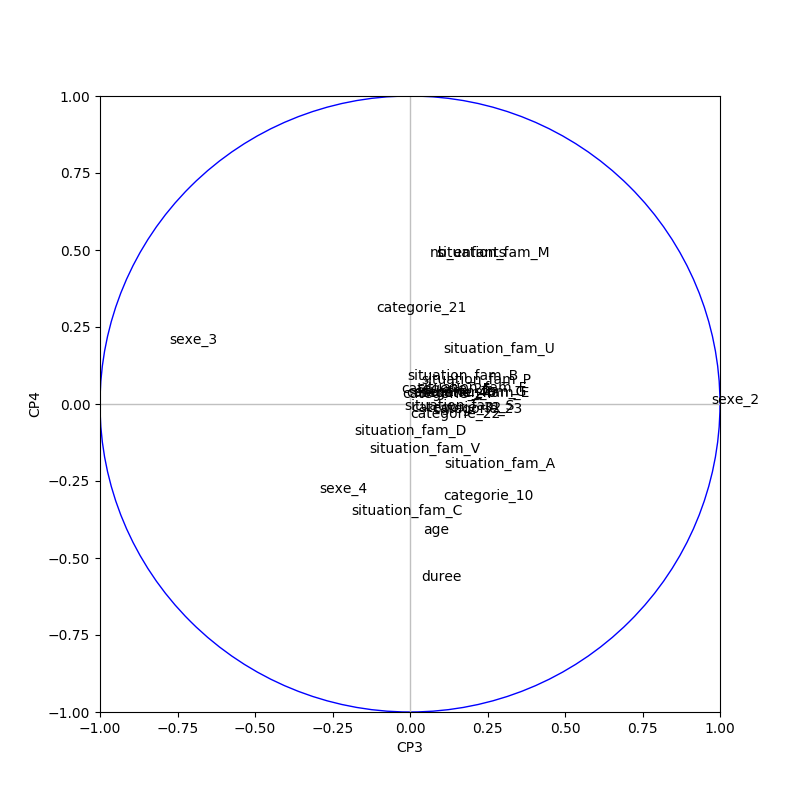
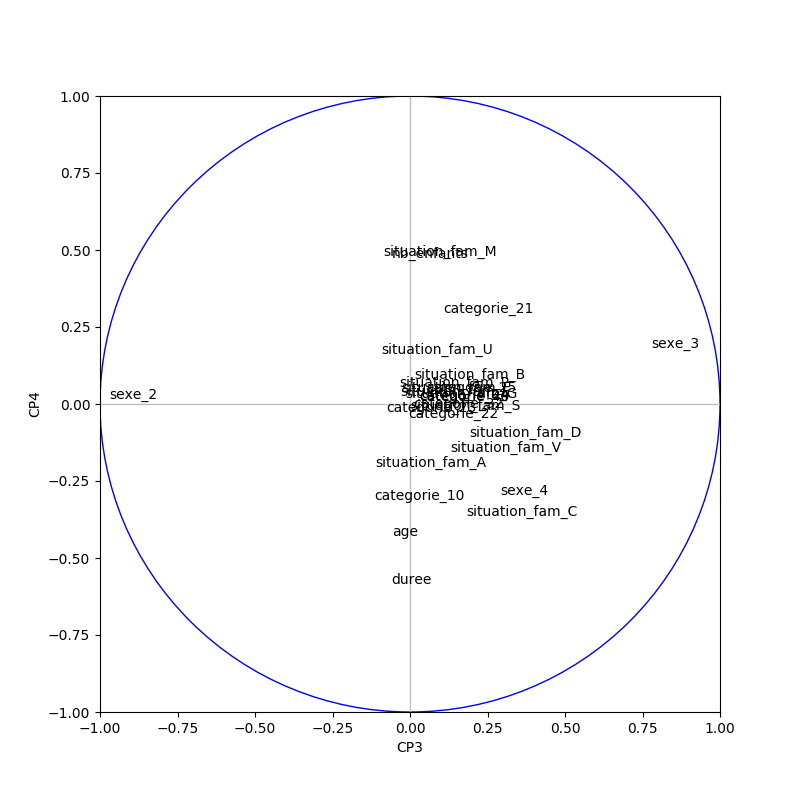
Arbre de décision

diff --git a/Kowalski.py b/Kowalski.py
@@ -5,6 +5,7 @@ import seaborn as sn
 import matplotlib.pyplot as plt
 import argparse
 import os
+import graphviz
 from sklearn import tree
 from sklearn.dummy import DummyClassifier
 from sklearn.naive_bayes import GaussianNB
@@ -126,17 +127,15 @@ def main(args):
     #####                                        #####
     ##################################################
     ##################################################
-
-    # Ligne 1: on ne discretise pas; Ligne 2: on discretise
-    #df["situation_fam"] = df["situation_fam"].apply(lambda x: ord(x.lower()) - 96).astype(int)
-    df = discretization(df, ["categorie", "situation_fam", "sexe"]) 
     
     # On prend autant de démissionnaires que de non démissionnaires
     mini = min([df[df["demissionnaire"] == True].count().iloc[0], df[df["demissionnaire"] == False].count().iloc[0]])
     df = df.groupby(["demissionnaire"]).apply(lambda grp: grp.sample(n = mini)).reset_index(level = [0, 1], drop = True)
 
-    # Création des données X et Y
-    X, Y = get_XY(df, type_exec)
+    #df_base["situation_fam"] = df_base["situation_fam"].apply(lambda x: ord(x.lower()) - 96).astype(int)
+    # Création des données X et Y. X_base et Y_base ne sont pas altérés à partir de maintenant
+    X, Y = get_XY(discretization(df, ["categorie", "situation_fam", "sexe"]), type_exec)
+    X_base, Y_base = get_XY(discretization(df, ["categorie", "situation_fam", "sexe"]), type_exec)
 
     # Scale des données
     scaler = StandardScaler()
@@ -159,13 +158,8 @@ def main(args):
         coord = pd.DataFrame(acp.fit_transform(X))
         corvar, eigval, n, p = get_corvar(X, acp)
 
-<<<<<<< HEAD
         # Affichage de la courpe de variable exprimée par les composantes
         save_eigval_graph(eigval, p)
-=======
-    # Affichage de la courpe de variable exprimée par les composantes
-    # save_eigval_graph(eigval, p)
->>>>>>> 4c990fda40d98080c30a4e6d0843894025e60fe1
 
         # Variance expliquée par composante principale
         print(acp.explained_variance_ratio_)
@@ -174,7 +168,6 @@ def main(args):
         correlation_circle(X, p, 0, 1, corvar)
         correlation_circle(X, p, 2, 3, corvar)
 
-<<<<<<< HEAD
         # Affichage des données projetées sur ces mêmes composantes
         save_acp_graph(acp, coord, X, Y, 0, 1, n, p, corvar)
         save_acp_graph(acp, coord, X, Y, 2, 3, n, p, corvar)
@@ -183,31 +176,18 @@ def main(args):
         #make_dendrogram(X)
         make_elbow(X)
         #make_Kmeans(5, X, coord.iloc[:, :4], Y);
-=======
-    # Affichage des données projetées sur ces mêmes composantes
-    # save_acp_graph(acp, coord, X, Y, 0, 1)
-    # save_acp_graph(acp, coord, X, Y, 2, 3)
-
-    # Clustering hiérarchique des données
-    # make_dendrogram(X)
-    make_elbow(X);
-    make_Kmeans(5, X, coord.iloc[:, :6], Y);
->>>>>>> 4c990fda40d98080c30a4e6d0843894025e60fe1
 
     ##################################################
     ##################################################
     #####                                        #####
-<<<<<<< HEAD
-    #####         PREDICTION DES DONNEES         #####
-=======
     #####      CLASSIFICATION DES DONNEES        #####
->>>>>>> 4c990fda40d98080c30a4e6d0843894025e60fe1
     #####                                        #####
     ##################################################
     ##################################################
 
     if args.predcluster or args.prediction:
         if type_exec == "f":
+            save_tree(X_base, Y_base)
             test_predict(X, Y)
 
 def make_Kmeans(k, X_raw, X_pca, Y):
@@ -232,11 +212,6 @@ def make_Kmeans(k, X_raw, X_pca, Y):
         print(col," --------------------------")
         res = X_raw.groupby(["labels",col]).size()
         print(res)
-<<<<<<< HEAD
-        #print ggplot(res, aes(x=col, weight = res.iloc[:,-1], fill = "labels")) + geom_bar() + theme_bw()
-        plt.hist(res, bins, label = ["x", "y"])
-        plt.legend(loc = "upper right")
-=======
         print("-------------------")
         res = res.to_frame()
         print("-------------------")
@@ -257,7 +232,6 @@ def make_Kmeans(k, X_raw, X_pca, Y):
         plt.figure(figsize=(10,6))
         print(type(res))
         sn.barplot(x=col, hue="labels", y=res.iloc[:,-1], data=res)
->>>>>>> 4c990fda40d98080c30a4e6d0843894025e60fe1
         plt.show()
 
 # Function called to plot the elbow graph for choosing the kmeans number of cluster.
@@ -357,6 +331,17 @@ def save_acp_graph(acp, coord, data, Y, cp1, cp2, n, p, corvar, fixed = False):
     axes.set_ylabel("CP " + str(cp2 + 1))
     plt.savefig("fig/" + type_exec + "/acp_instances_plan_" + str(cp1) + "-" + str(cp2))
     plt.close(fig)
+    print("Done")
+
+def save_tree(X, Y):
+    print("Saving Decision Tree...")
+    tree_clf = tree.DecisionTreeClassifier(random_state = 0)
+    tree_clf = tree_clf.fit(X, Y)
+    res = tree.export_graphviz(tree_clf, class_names = ["Non dem", "Dem"], filled = True, rounded = True, out_file = None, feature_names = X.columns, max_depth = 3)
+    img = graphviz.Source(res)
+    img.format = "png"
+    img.render("./fig/" + type_exec + "/decision_tree", view = False)
+    os.remove("./fig/" + type_exec + "/decision_tree")
     print("Done")
 
 # Sauvegarde le cercle des corrélations
